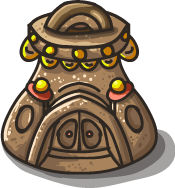
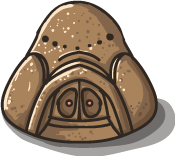
changes tower images and and health bar

diff --git a/pTowerDefense/include/view/vGameBoard.h b/pTowerDefense/include/view/vGameBoard.h
@@ -62,6 +62,7 @@ class vGameBoard
         void adaptAnimationSprite();
         void adaptAnimationTexture();
         void adaptPartOfTexture();
+        void updateKingHealth();
 
 
     protected:
@@ -109,7 +110,6 @@ class vGameBoard
         int y_knight = 0;
 
 
-
         int x_acide = 0;
 
         sf::Clock animClock;
@@ -119,6 +119,12 @@ class vGameBoard
 
         Game game;
         RenderWindow *windowFromMain;
+
+        //King
+        sf::Texture kingHealthGreenTexture;
+        sf::Texture kingHealthRedTexture;
+        sf::Sprite kingHealthGreenSprite;
+        sf::Sprite kingHealthRedSprite;
 
         //walk
         sf::Texture gremlinTextureWalk;
@@ -161,29 +167,25 @@ class vGameBoard
         sf::Texture earthTowerTexture;
 
         Texture earthTowerTexture1;
-        Texture earthTowerTexture2;
-        Texture earthTowerTexture3;
+
         Texture earthAttack;
 
         Texture sandTowerTexture;
 
         Texture sandTowerTexture1;
-        Texture sandTowerTexture2;
-        Texture sandTowerTexture3;
+
         Texture sandAttack;
 
         Texture iceTowerTexture;
 
         Texture iceTowerTexture1;
-        Texture iceTowerTexture2;
-        Texture iceTowerTexture3;
+
         Texture iceAttack;
 
         Texture ironTowerTexture;
 
         Texture ironTowerTexture1;
-        Texture ironTowerTexture2;
-        Texture ironTowerTexture3;
+
         Texture ironAttack;
 
         //Tower sprites

diff --git a/pTowerDefense/include/model/Enemies.h b/pTowerDefense/include/model/Enemies.h
@@ -23,7 +23,7 @@ class Enemies
     public:
 
         static inline int compteur = 0;
-        const int WALK_SPEED = 1;
+        const int WALK_SPEED = 10;
 
         //canonic form
         Enemies(int health=100, int attackSpeed=1, int marketValue=100, int scoreValue=100, int damage=1);
@@ -60,6 +60,11 @@ class Enemies
         int getId()const
         {
             return *id;
+        }
+
+        int getDamage()const
+        {
+            return damage;
         }
 
         bool isSpawn()const

diff --git a/pTowerDefense/include/model/King.h b/pTowerDefense/include/model/King.h
@@ -1,6 +1,8 @@
 #ifndef KING_H
 #define KING_H
 
+#include <string>
+
 class King
 {
     public:
@@ -11,6 +13,7 @@ class King
         King& operator=(const King& other);
 
         const static int xKing = 1200;
+        const static int kingHeathMax = 1000;
 
         int getHealth()
         {
@@ -19,6 +22,8 @@ class King
 
         void setHealth(int health);
         void receiveDamage(int damage);
+
+        std::string getInformations()const;
 
 
 
